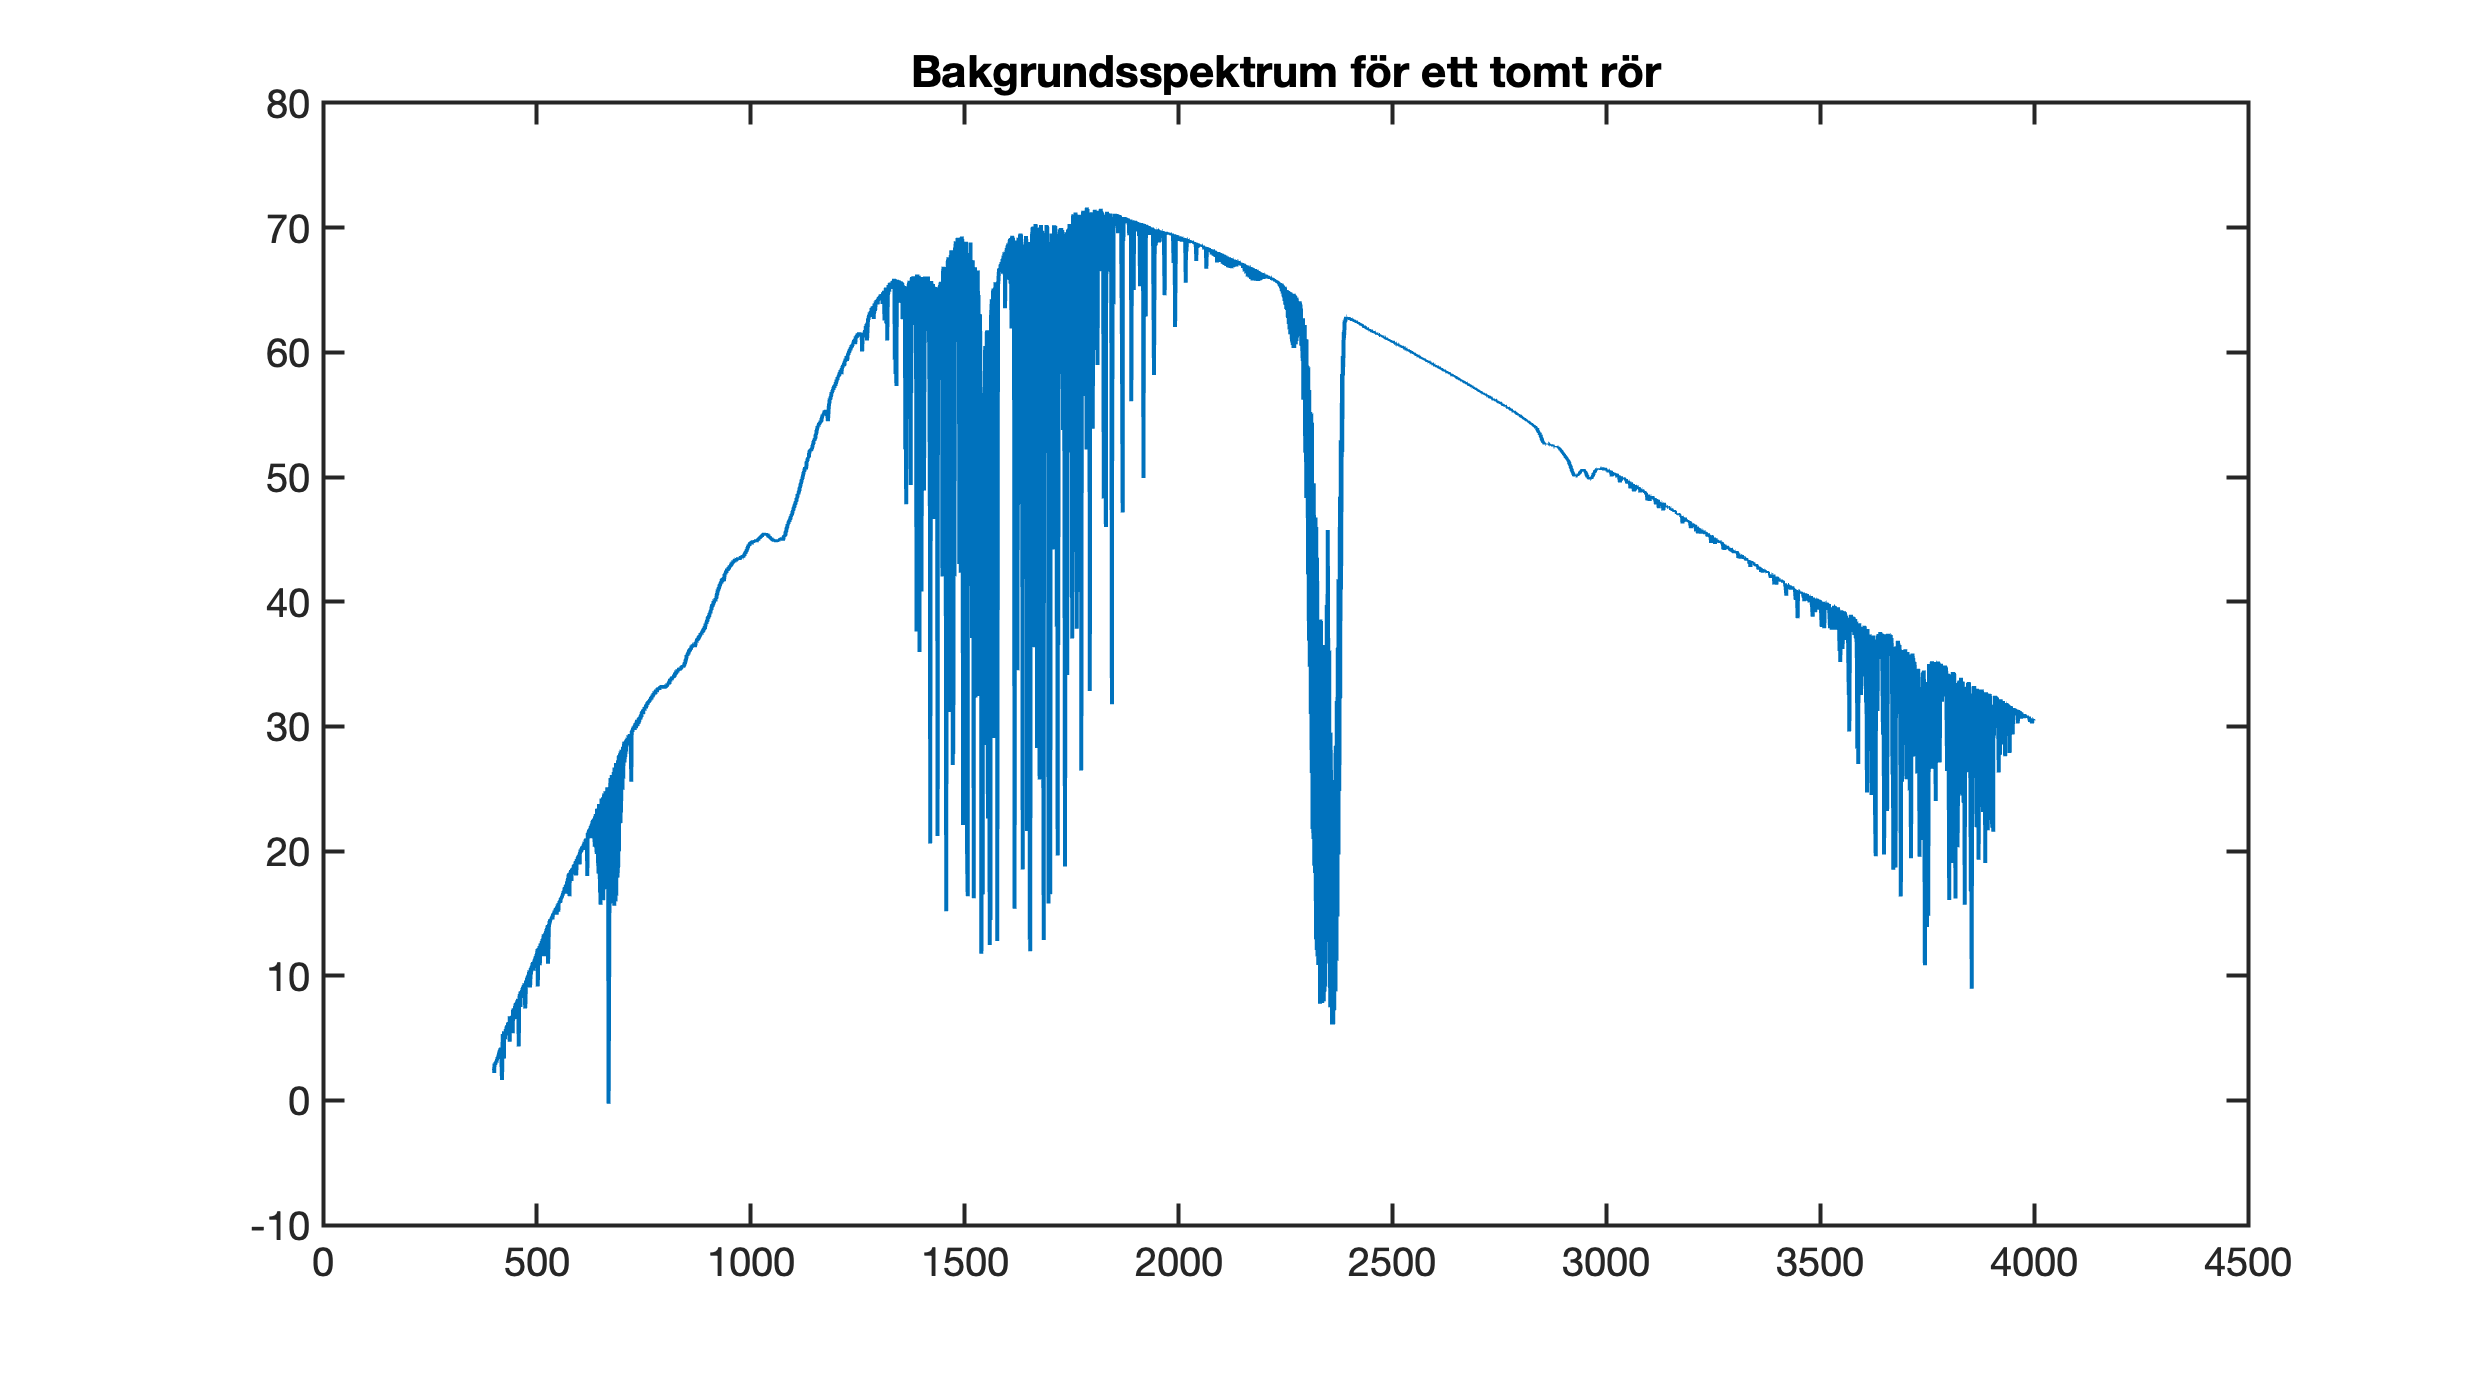
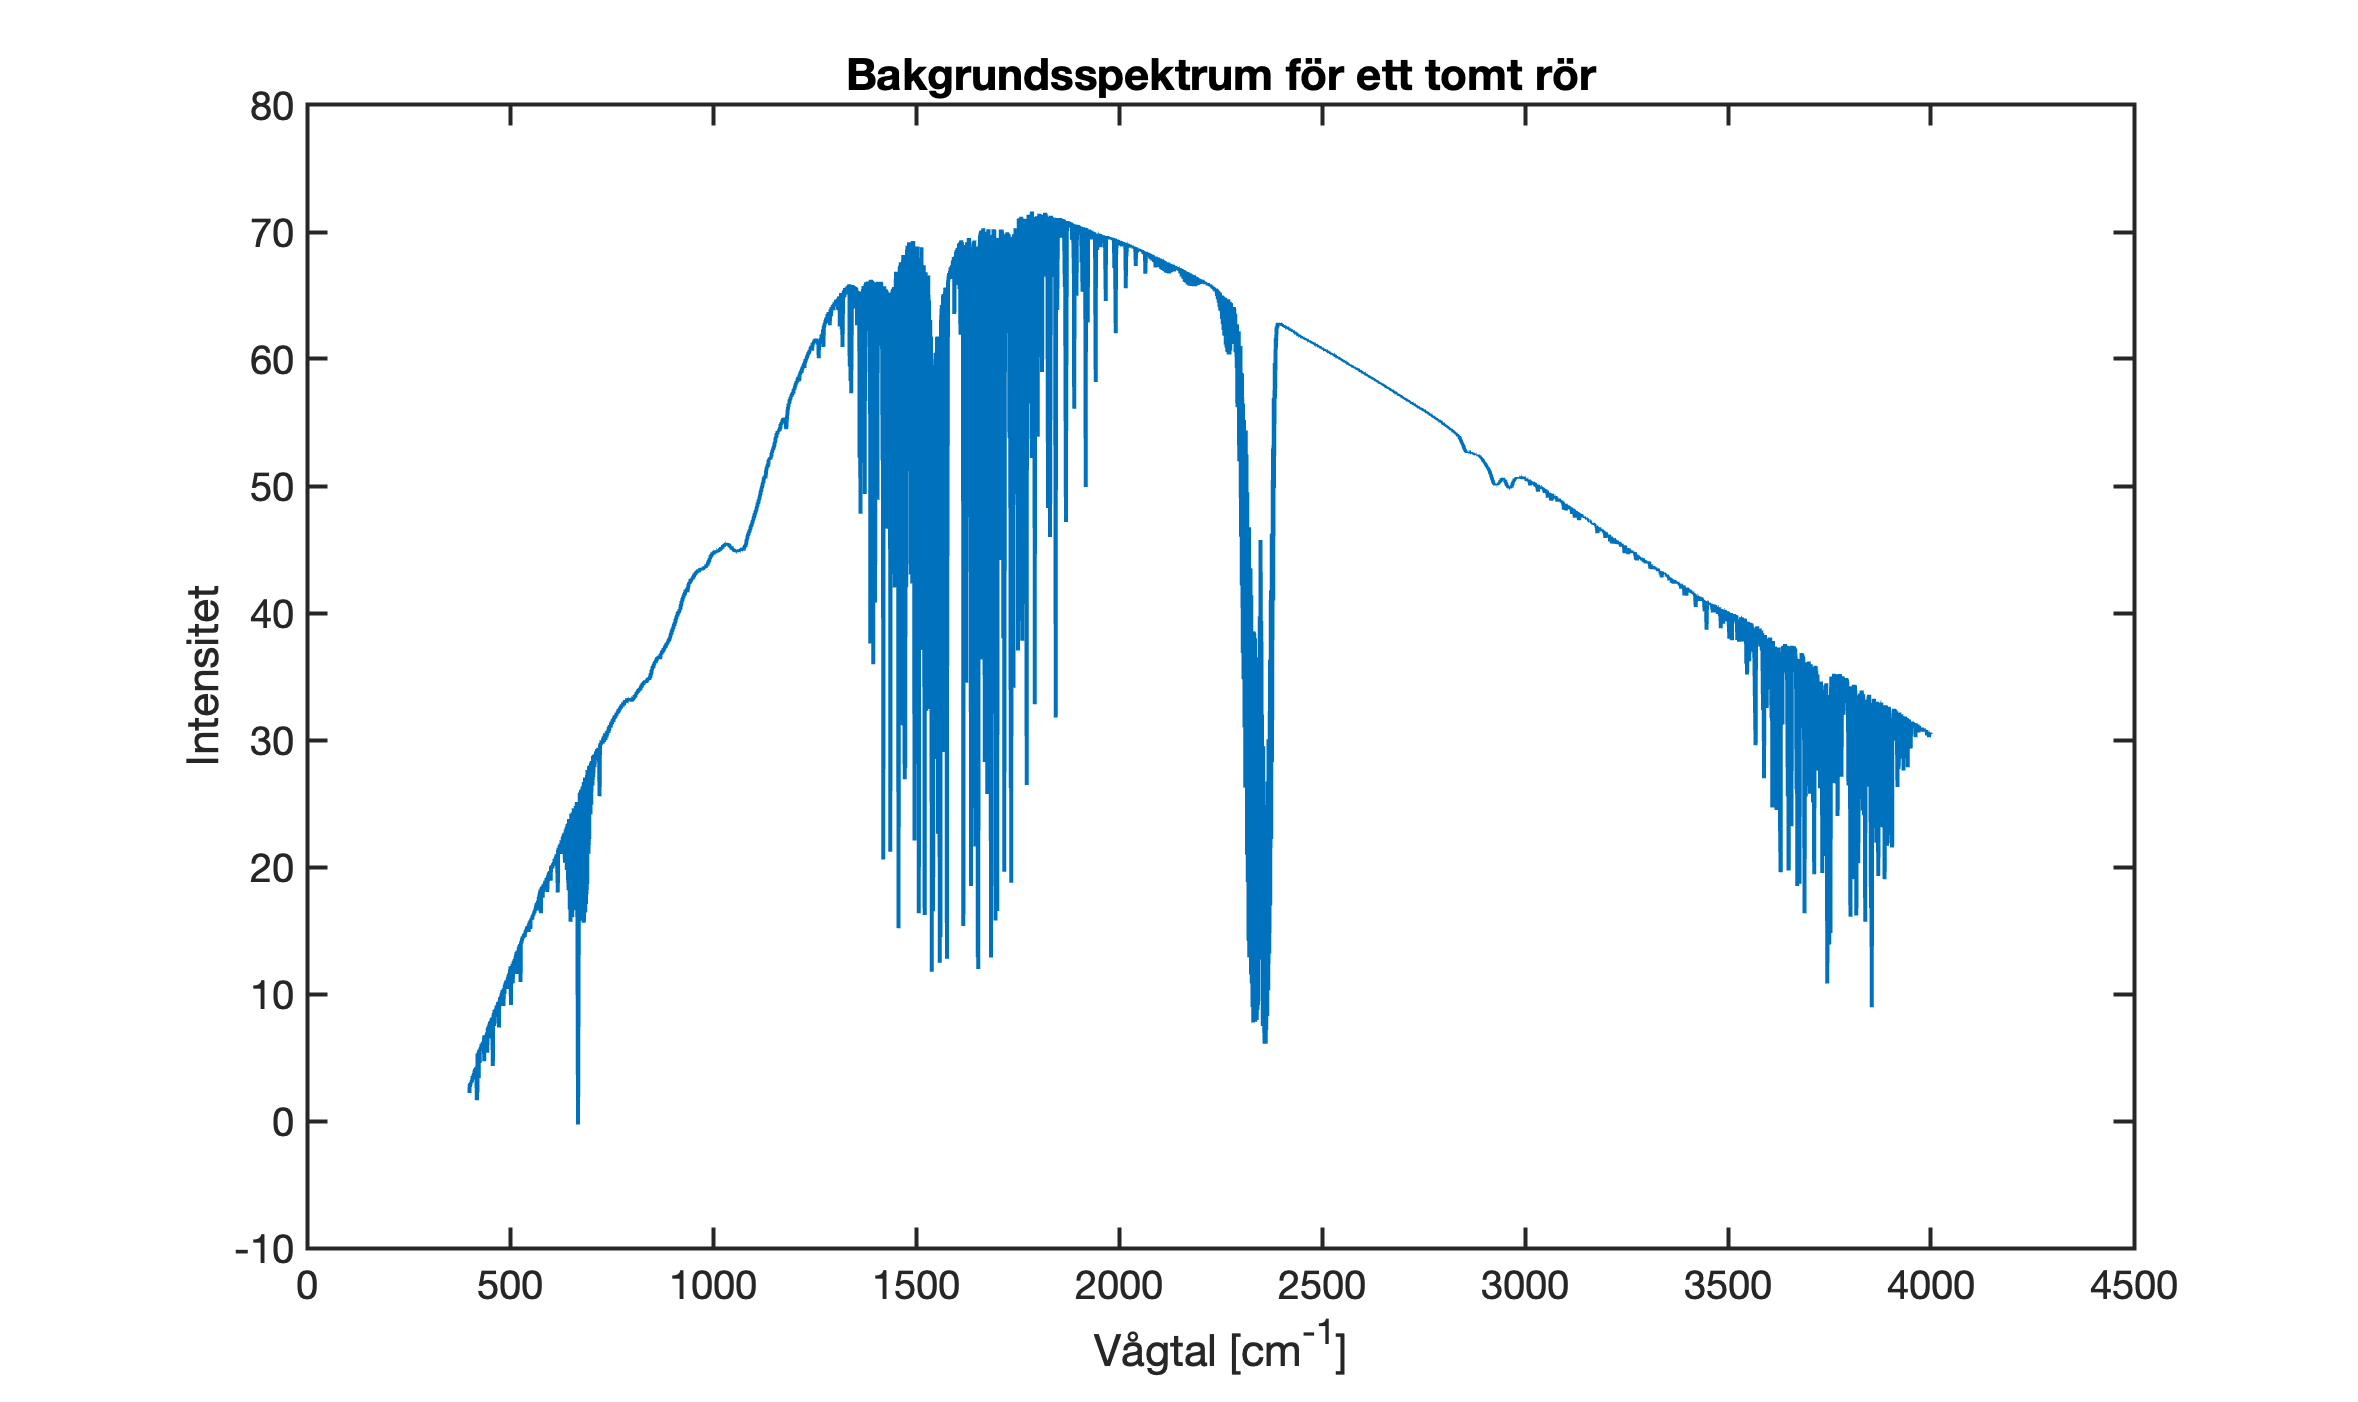
update

diff --git a/lab2/spektroskopi_online.m b/lab2/spektroskopi_online.m
@@ -15,6 +15,8 @@ bp = plot(data2(:,1),data2(:,2));
 set(bp,'lineWidth', 2)
 title('Bakgrundsspektrum för ett tomt rör')
 set(gca, 'fontsize', 20, 'linewidth', 2)
+ylabel('Intensitet');
+xlabel('Vågtal [cm^{-1}]', 'Interpreter','tex');
 waitfor(gcf)
 
 hold off
@@ -38,6 +40,7 @@ h(3) = line([Q_coords(1),Q_coords(1)] , [Q_low,Q_coords(2)]);hold on;
 % vågtal R1 och P1: 
 	% R1 - 2147.04646
 	% P1 - 2139.45312
+	% Q1 - 2143.24979
 % B och w0:
 	% B - 3.771002212581517e-23
 	% w0 (rad/s) - 4.022832619275761e+14

diff --git a/physconst.m b/physconst.m
@@ -1,0 +1,15 @@
+h		= 6.62607015e-34;
+h_		= h/(2*pi);
+c		= 299792458;
+hc		= h*c;
+k		= 1.380649e-23;
+Rgen	= 10973732;
+RH		= 10967759;
+R		= 8.314462618;
+u		= 1.66054e-27;
+NA		= 6.02214076e+23;
+e		= 1.602176634e-19;
+me		= 9.10953e-31;
+mn		= 1.67495e-27;
+mp		= 1.67265e-27;
+save('physconst.mat')
